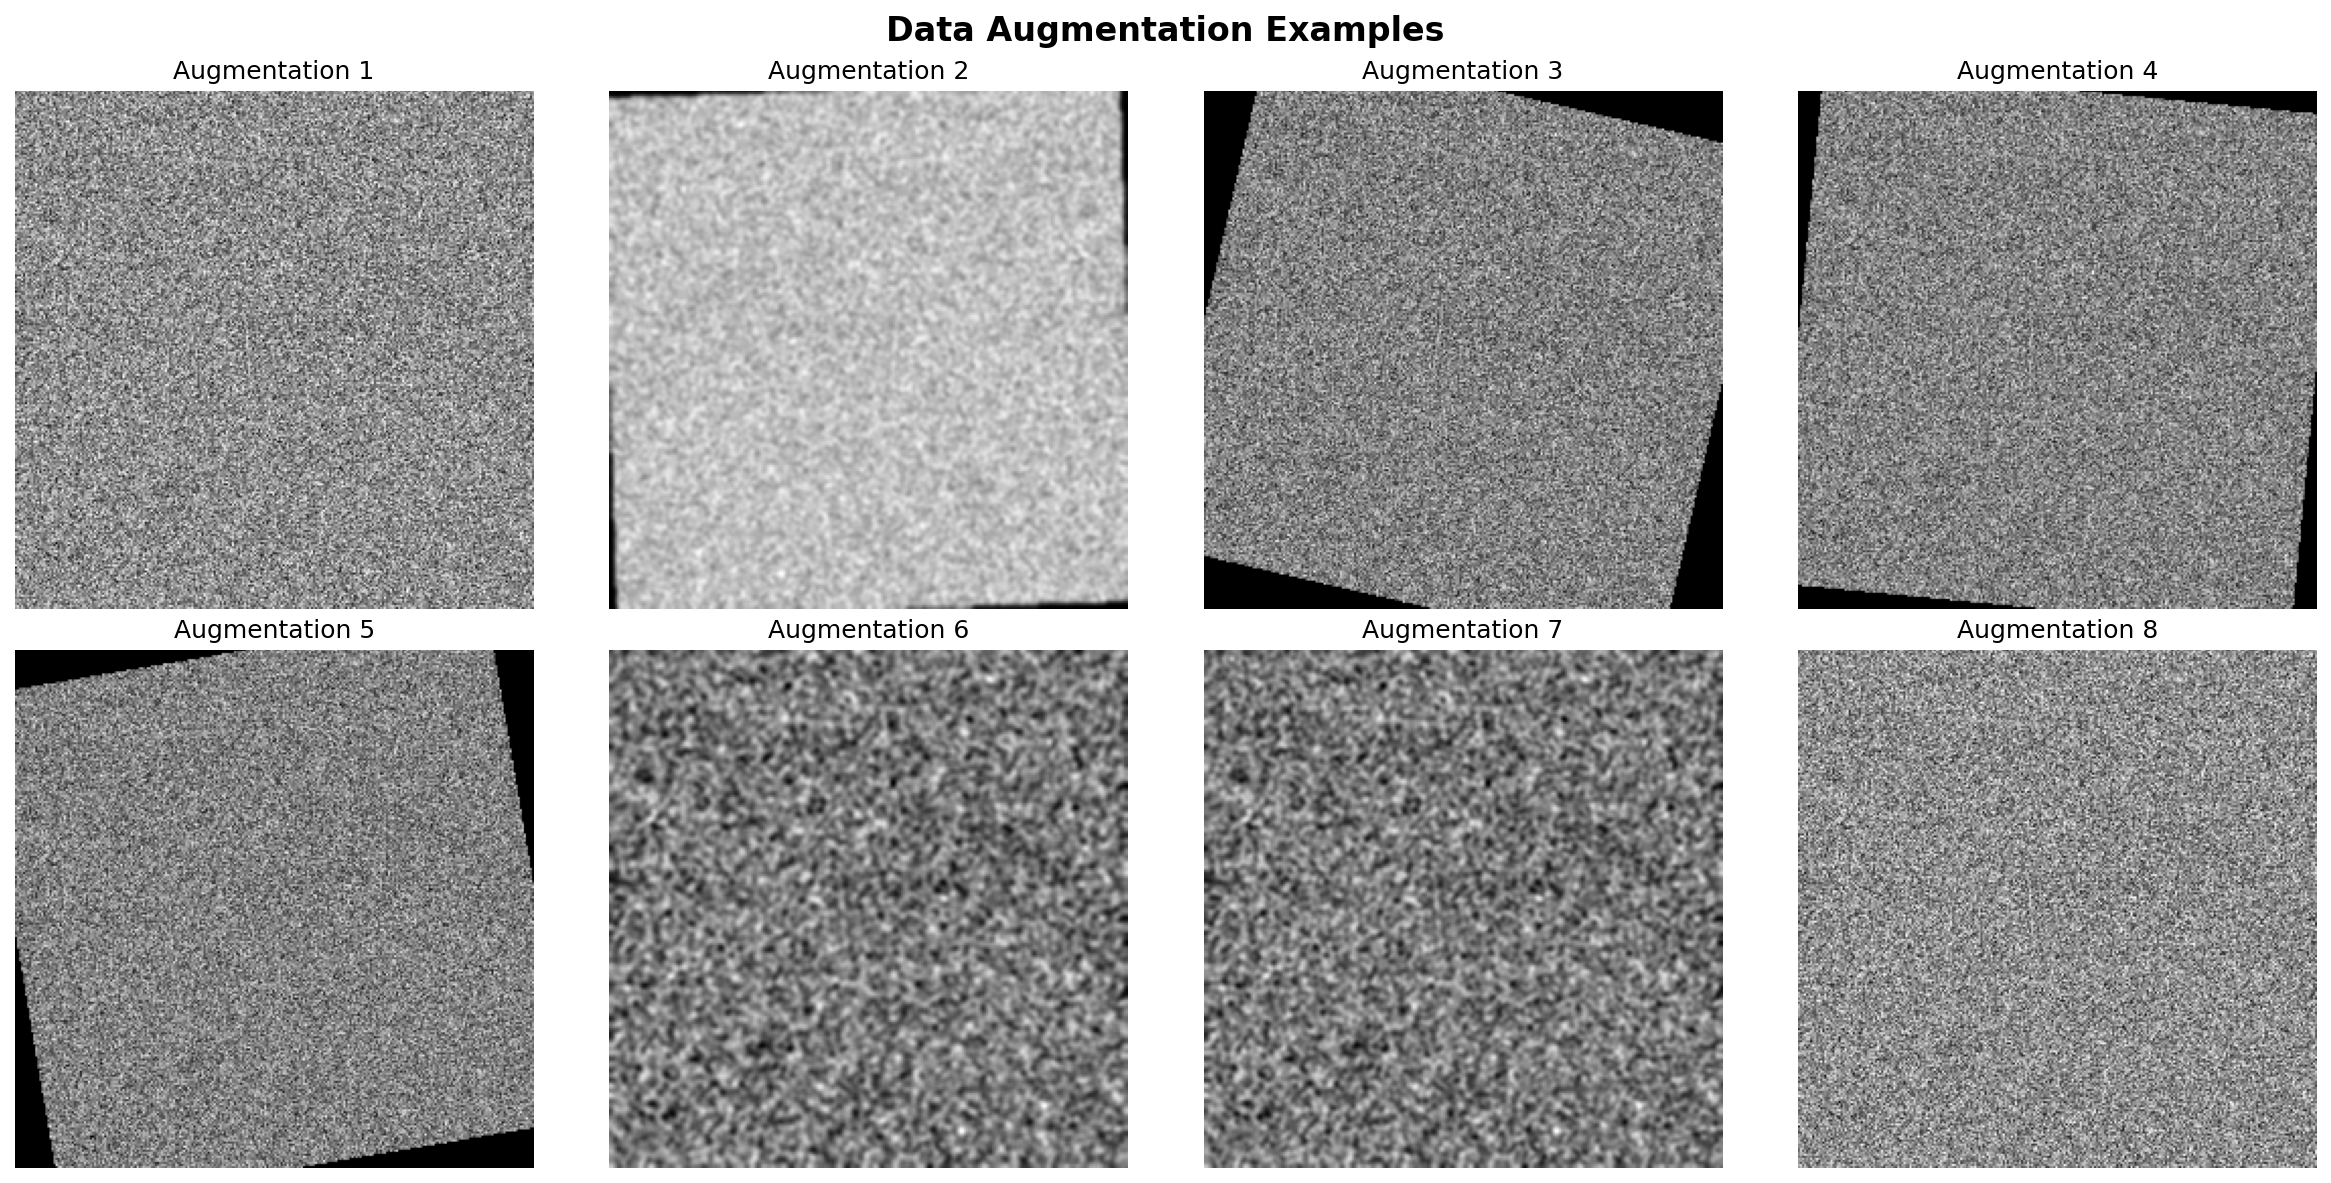
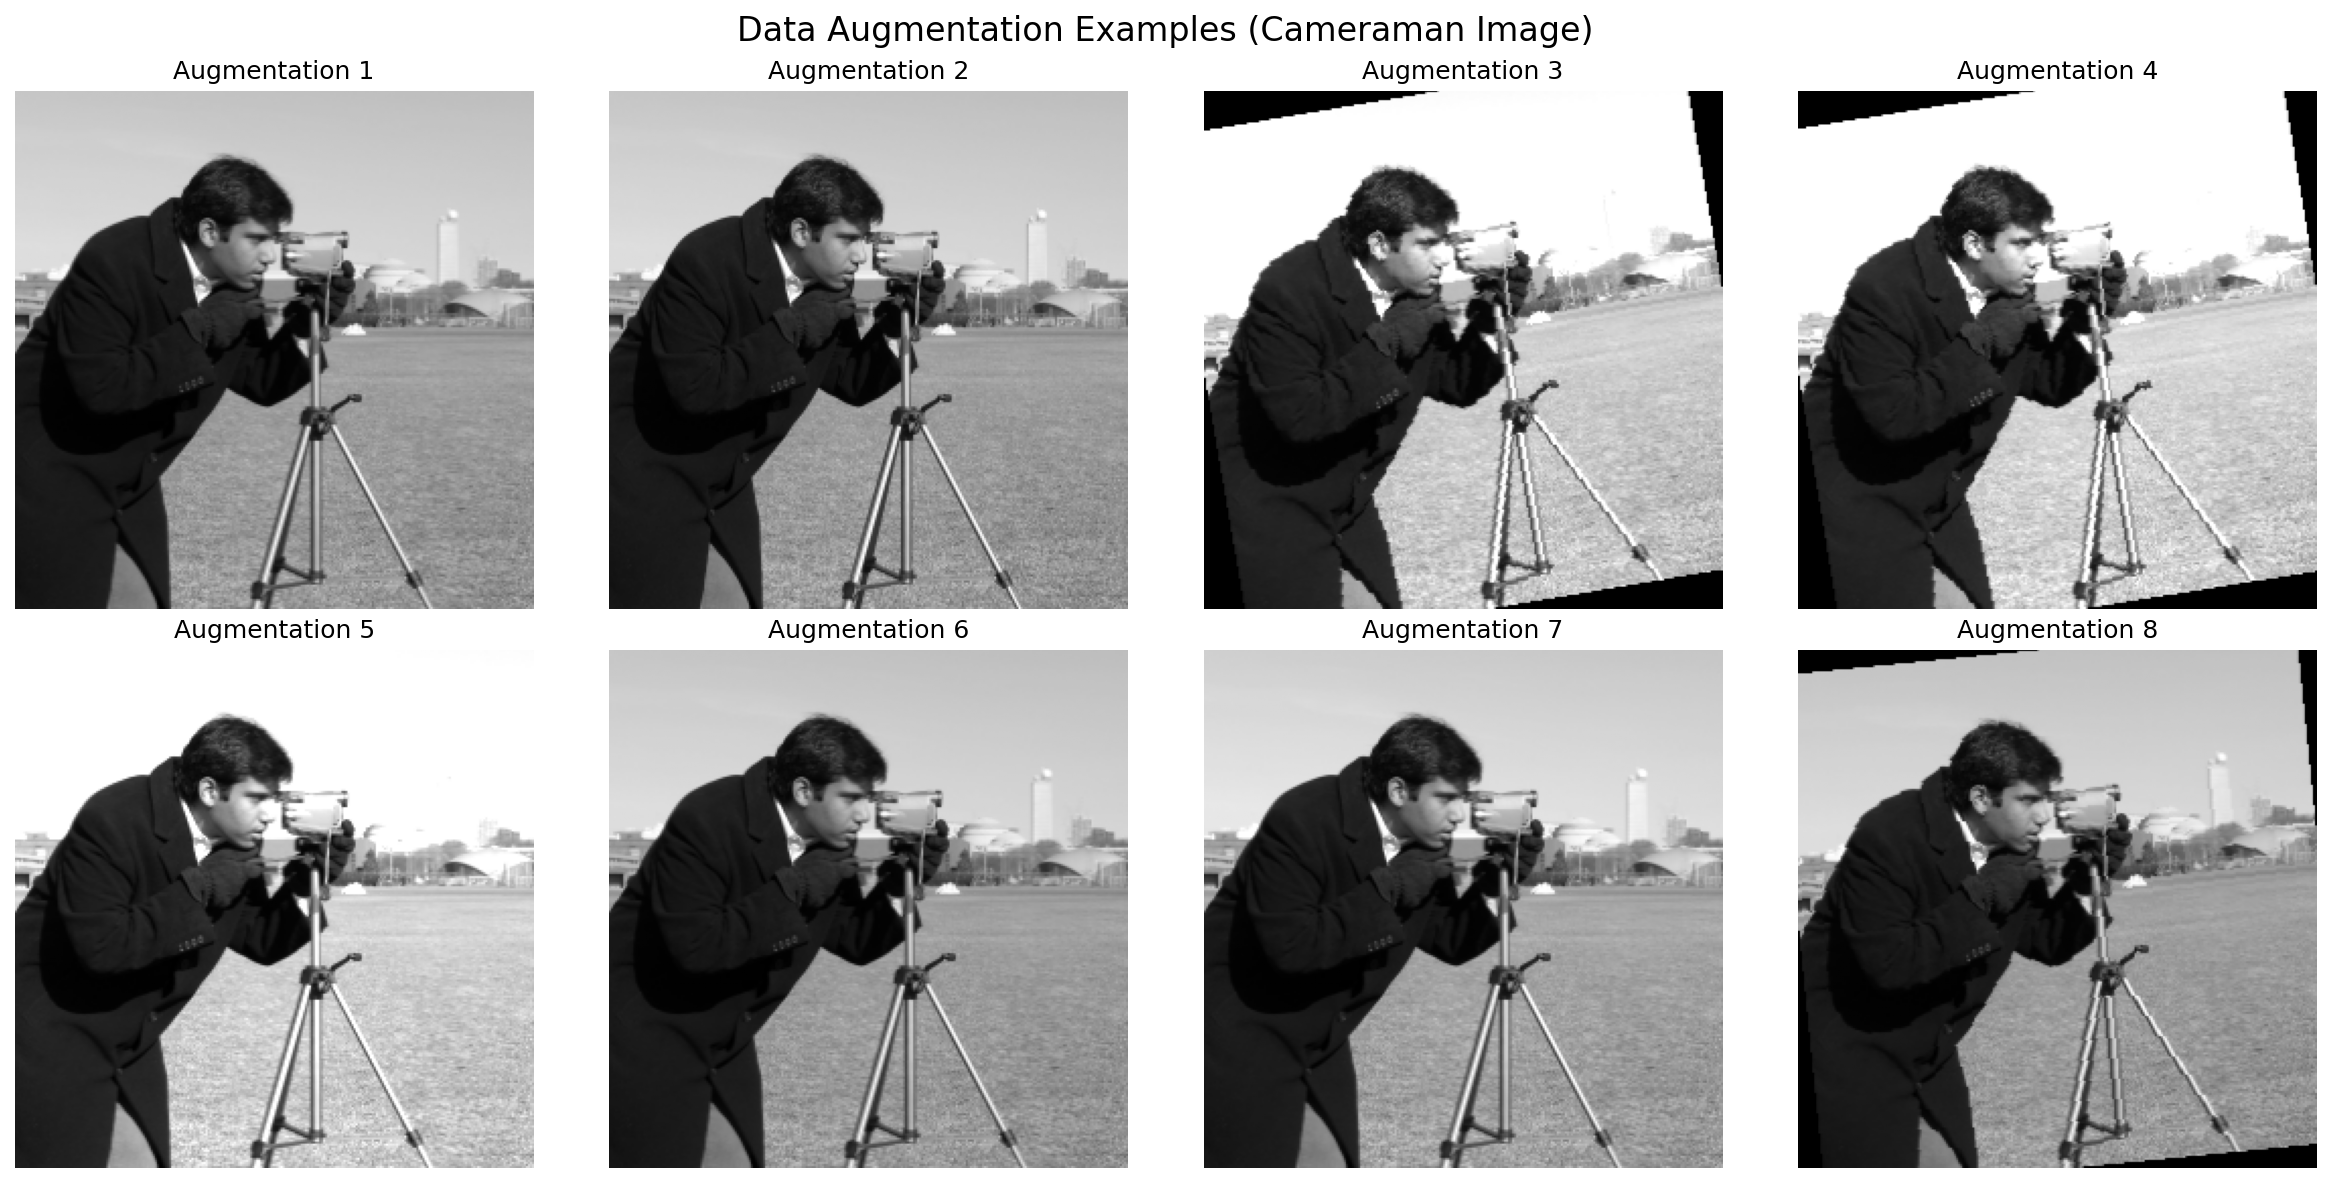
update docs with more accurate info

diff --git a/docs/generate_blog_figures.py b/docs/generate_blog_figures.py
@@ -131,36 +131,84 @@ print("   ✓ Saved to: docs/images/heatmap_visualization.png")
 
 # Figure 4: Data Augmentation
 print("\n[3/6] Generating data augmentation examples...")
-sample_base = {
-    "image": np.random.rand(512, 512),
-    "v_landmarks": np.array([[200, 150], [210, 160], [220, 155]]),
+import torch
+from torchvision import transforms
+from cvmt.ml.utils import (
+    ResizeTransform,
+    Coord2HeatmapTransform,
+    CustomToTensor,
+    RandomHorFlip,
+    RandomRotationTransform,
+    GaussianBlurTransform,
+    RandomBrightness,
+    CustomScaleto01,
+    RightResizedCrop
+)
+import matplotlib.pyplot as plt
+import numpy as np
+# --- Import an image from scikit-image data ---
+from skimage import data 
+
+# Load a real, well-known grayscale image (the 'cameraman')
+# Ensure the image is normalized to [0, 1] for best compatibility with your pipeline
+original_image = data.camera().astype(np.float32) / 255.0 
+
+# Check image size and resize it to a larger size if needed for the example's starting point
+# We'll stick to the original size or slightly larger if needed, 
+# and let the ResizeTransform handle the final size.
+if original_image.shape[0] < 512 or original_image.shape[1] < 512:
+    # Resize to a common starting size (optional, depending on the original size)
+    # Since the cameraman image is 256x256, we'll let ResizeTransform handle it.
+    pass # Keep it at its original size (256x256) which is fine.
+
+# Example landmarks, scaled to the 256x256 image size
+landmarks_256 = np.array([[100, 75], [110, 80], [120, 77]]) 
+
+
+# Load sample image and landmarks 
+sample = {
+    'image': original_image, # Use the real image
+    'v_landmarks': landmarks_256  # Example landmarks for the 256x256 image
 }
 
-augmentations = transforms.Compose(
-    [
-        ResizeTransform(size=(256, 256)),
-        Coord2HeatmapTransform(gauss_std=2.0),
-        CustomToTensor(),
-        RandomHorFlip(p=0.5),
-        RandomRotationTransform(degrees=15, p=0.5),
-        GaussianBlurTransform(kernel_size=5, sigma=(0.1, 2.0), p=0.3),
-        RandomBrightness(low=0.8, high=1.2, p=0.3),
-        CustomScaleto01(),
-    ]
-)
+# Define augmentation pipeline (matching config.yaml TRAIN transforms)
+augmentations = transforms.Compose([
+    ResizeTransform(size=(256, 256)),
+    Coord2HeatmapTransform(gauss_std=1.0),
+    CustomToTensor(),
+    CustomScaleto01(),
+    RandomRotationTransform(degrees=[5, 10], p=0.5),
+    GaussianBlurTransform(kernel_size=3, sigma=0.2, p=0.1),
+    RightResizedCrop(width_scale_low=0.6, width_scale_high=1.0, p=0.5),
+    RandomBrightness(low=0.8, high=1.5, p=0.2)
+])
 
+# Apply augmentations multiple times
 fig, axes = plt.subplots(2, 4, figsize=(16, 8))
-fig.suptitle("Data Augmentation Examples", fontsize=16, fontweight="bold")
+fig.suptitle('Data Augmentation Examples (Cameraman Image)', fontsize=16)
 
 for i, ax in enumerate(axes.flat):
-    augmented = augmentations(sample_base.copy())
-    image = augmented["image"].squeeze().numpy()
-    ax.imshow(image, cmap="gray")
-    ax.set_title(f"Augmentation {i+1}", fontsize=12)
-    ax.axis("off")
+    # Apply augmentations to a *copy* of the sample data
+    augmented = augmentations(sample.copy())
+    
+    # The image is now a Tensor of shape [1, H, W] or [H, W] if CustomToTensor 
+    # and Coord2HeatmapTransform output a single-channel image/heatmap.
+    # We assume 'image' contains the transformed image data.
+    image = augmented['image'].squeeze().numpy()
+    
+    # Check if the output is an image or a heatmap (since you use Coord2HeatmapTransform)
+    # Assuming the 'image' key still holds the visual data (like a heatmap or the image itself 
+    # if the pipeline is structured to update the image inplace). 
+    # If the output is a set of heatmaps, you'll need to sum/visualize them differently.
+    # For a simple visual demo, we'll stick to a grayscale display.
+
+    # Plot the result
+    ax.imshow(image, cmap='gray')
+    ax.set_title(f'Augmentation {i+1}')
+    ax.axis('off')
 
 plt.tight_layout()
-plt.savefig("docs/images/augmentation_examples.png", dpi=150, bbox_inches="tight")
+plt.savefig('docs/images/augmentation_examples.png', dpi=150, bbox_inches='tight')
 plt.close()
 print("   ✓ Saved to: docs/images/augmentation_examples.png")
 

diff --git a/docs/machine-learning-strategy.md b/docs/machine-learning-strategy.md
@@ -230,7 +230,9 @@ All augmentations are applied to both images and landmark heatmaps to maintain c
 
 #### Visualizing Data Augmentation Effects
 
-Here's how different augmentations affect the training data:
+Data Augmentation Pipeline: The training pipeline applies data augmentation transforms sequentially in the order specified in the configuration file (configs/params.yaml). The use of OrderedDict ensures that transforms are applied in the exact sequence defined. Transforms without a probability parameter (e.g., `CUSTOMRESIZE`, `COORD2HEATMAP`, `CUSTOMTOTENSOR`, `SCALE01`) are applied to every sample, while probabilistic transforms (e.g., `RANDOMROTATION`, `GAUSSIANBLUR`, `RIGHTRESIZECROP`, `RANDOMBRIGHTNESS`) are conditionally applied based on their p parameter. For example, a transform with p=0.5 has a 50% chance of being executed on each sample, though it will always be evaluated in its designated position in the pipeline. This ordering is critical because certain transforms (like tensor conversion and normalization) must occur before subsequent augmentations that operate on tensor data.
+
+Here's how different augmentations affect the training data for illustration purposes by first applying the 4 base transforms and then applying the probabilistic transforms:
 
 ```python
 import torch
@@ -247,38 +249,97 @@ from cvmt.ml.utils import (
 )
 import matplotlib.pyplot as plt
 import numpy as np
+from skimage import data 
 
-# Load sample image and landmarks (assuming you have a sample)
-sample = {
-    'image': np.random.rand(512, 512),  # Placeholder
-    'v_landmarks': np.array([[200, 150], [210, 160], [220, 155]])  # Example
-}
+# Load the cameraman image and normalize
+original_image = data.camera().astype(np.float32) / 255.0 
+landmarks_256 = np.array([[100, 75], [110, 80], [120, 77]]) 
 
-# Define augmentation pipeline
-augmentations = transforms.Compose([
-    ResizeTransform(size=(256, 256)),
+# Base transformations (applied to all)
+base_transforms = transforms.Compose([
+    ResizeTransform(size=(256, 256)), 
     Coord2HeatmapTransform(gauss_std=2.0),
     CustomToTensor(),
-    RandomHorFlip(p=0.5),
-    RandomRotationTransform(degrees=15, p=0.5),
-    GaussianBlurTransform(kernel_size=5, sigma=(0.1, 2.0), p=0.3),
-    RandomBrightness(low=0.8, high=1.2, p=0.3),
-    CustomScaleto01()
 ])
 
-# Apply augmentations multiple times
+# Define a list of pipelines, each with a single major random augmentation
+# We need 7 augmentations plus the original for 8 plots (2x4)
+augmentation_pipelines = [
+    ("Original", transforms.Compose([
+        ResizeTransform(size=(256, 256)),
+        Coord2HeatmapTransform(gauss_std=2.0),
+        CustomToTensor(),
+        CustomScaleto01() # Final scaling
+    ])),
+    ("Horizontal Flip", transforms.Compose([
+        base_transforms, 
+        RandomHorFlip(p=1.0), # p=1.0 forces the flip
+        CustomScaleto01()
+    ])),
+    ("Rotation (+15°)", transforms.Compose([
+        base_transforms, 
+        RandomRotationTransform(degrees=15, p=1.0), # p=1.0 forces rotation (up to 15 degrees)
+        CustomScaleto01()
+    ])),
+    ("Gaussian Blur", transforms.Compose([
+        base_transforms, 
+        GaussianBlurTransform(kernel_size=5, sigma=(2.0, 2.0), p=1.0), # Fixed strong blur
+        CustomScaleto01()
+    ])),
+    ("Brightness (Darker)", transforms.Compose([
+        base_transforms, 
+        RandomBrightness(low=0.5, high=0.5, p=1.0), # Fixed darker brightness
+        CustomScaleto01()
+    ])),
+    ("Brightness (Lighter)", transforms.Compose([
+        base_transforms, 
+        RandomBrightness(low=1.5, high=1.5, p=1.0), # Fixed lighter brightness
+        CustomScaleto01()
+    ])),
+    ("Flip & Rotate", transforms.Compose([
+        base_transforms, 
+        RandomHorFlip(p=1.0),
+        RandomRotationTransform(degrees=10, p=1.0), 
+        CustomScaleto01()
+    ])),
+    ("Rotation & Blur", transforms.Compose([
+        base_transforms, 
+        RandomRotationTransform(degrees=10, p=1.0),
+        GaussianBlurTransform(kernel_size=5, sigma=(2.0, 2.0), p=1.0),
+        CustomScaleto01()
+    ]))
+]
+
+sample = {
+    'image': original_image, 
+    'v_landmarks': landmarks_256
+}
+
+# Apply augmentations 
 fig, axes = plt.subplots(2, 4, figsize=(16, 8))
-fig.suptitle('Data Augmentation Examples', fontsize=16)
+fig.suptitle('Data Augmentation Examples (Cameraman Image)', fontsize=16)
 
 for i, ax in enumerate(axes.flat):
-    augmented = augmentations(sample.copy())
+    if i < len(augmentation_pipelines):
+        title, pipeline = augmentation_pipelines[i]
+    else:
+        # Fallback for remaining slots if not enough pipelines are defined
+        title, pipeline = "Default Pipeline", augmentation_pipelines[0][1]
+
+    # Apply the specific pipeline to a fresh copy of the sample
+    augmented = pipeline(sample.copy())
+    
+    # Extract the processed image/heatmap
+    # Squeeze to remove single-dimensional channels (e.g., [1, 256, 256] -> [256, 256])
     image = augmented['image'].squeeze().numpy()
+    
+    # Plot the result
     ax.imshow(image, cmap='gray')
-    ax.set_title(f'Augmentation {i+1}')
+    ax.set_title(title) # Use the defined augmentation name as the title
     ax.axis('off')
 
 plt.tight_layout()
-plt.savefig('docs/images/augmentation_examples.png', dpi=150)
+plt.savefig('docs/images/augmentation_examples_named.png', dpi=150)
 plt.show()
 ```
 
@@ -718,10 +779,8 @@ git clone https://github.com/saeedmehrang/cvmt.git
 cd cvmt
 
 # Set up environment
-python3 -m venv cephal
-source cephal/bin/activate
-pip install -r environment/pip/gpu/requirements-dev.txt
-pip install -e .
+uv sync 
+source .venv/bin/activate
 
 # Run data preparation
 python3 -m main --step data_prep

diff --git a/docs/README.md b/docs/README.md
@@ -43,7 +43,7 @@ python docs/generate_blog_figures.py
 All figures are saved to `docs/images/` directory.
 
 **Requirements:**
-- All dependencies from `requirements-dev.txt` installed
+- All dependencies from `pyproject.toml` installed
 - Optional: `torchview` for architecture visualization (`pip install torchview`)
 
 ## Publishing the Blog Post
@@ -78,13 +78,6 @@ The blog post (`machine-learning-strategy.md`) is ready for publication with:
 
 4. **Update image paths**: Change `docs/images/` paths to your website's image URL structure
 
-### Customization Tips:
-
-- **Add your actual results**: Replace placeholder MRE values with real validation metrics
-- **Include real X-ray images**: If permitted, add actual X-ray visualizations (ensure HIPAA compliance)
-- **Add your photo/bio**: Personalize the "About the Author" section
-- **Link to deployed demo**: If you deploy a web interface, add the link
-- **Social sharing**: Add social media preview images (Open Graph tags)
 
 ## Image Directory
 
